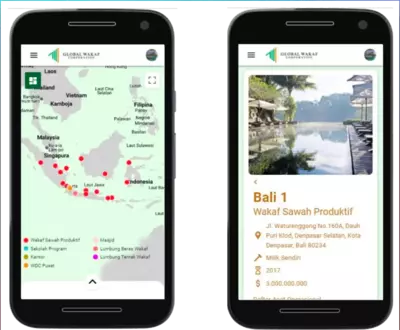
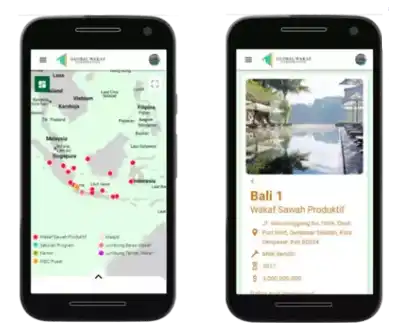
Fix nama route, dan fix image layout shift

diff --git a/src/routes/projects/+page.svelte b/src/routes/projects/+page.svelte
@@ -6,7 +6,7 @@
 			classes: 'img-horizontal-asik',
 			img: ['/images/asik.webp'],
 			stack: ['VueJS 2', 'Tailwind'],
-			project: 'Kementrian Kesehatan',
+			project: 'Kementerian Kesehatan',
 			url: null
 		},
 		{
@@ -15,7 +15,7 @@
 			classes: 'img-vertical',
 			img: ['/images/ehac.webp', '/images/ehac1.webp', 'images/myehac.webp'],
 			stack: ['NuxtJS', 'Vuetify'],
-			project: 'Kementrian Kesehatan',
+			project: 'Kementerian Kesehatan',
 			url: null
 		},
 		{
@@ -24,7 +24,7 @@
 			classes: 'img-vertical',
 			img: ['/images/vue3-movie.webp'],
 			stack: ['VueJS 3', 'Tailwind'],
-			project: 'Self Project',
+			project: 'Proyek Pribadi',
 			url: 'https://vue3-movie.vercel.app'
 		},
 		{
@@ -33,7 +33,7 @@
 			classes: 'img-vertical',
 			img: ['/images/catatan-kajian.webp'],
 			stack: ['SvelteKit', 'Tailwind'],
-			project: 'Self Project',
+			project: 'Proyek Pribadi',
 			url: 'https://catatan-kajian.vercel.app'
 		},
 		{
@@ -42,7 +42,7 @@
 			classes: 'img-horizontal-blibli',
 			img: ['/images/blibli.webp'],
 			stack: ['SvelteKit', 'Tailwind'],
-			project: 'Self Project',
+			project: 'Proyek Pribadi',
 			url: 'https://learn-svelte-sveltekit.vercel.app/project/blibli-clone'
 		},
 		{
@@ -60,7 +60,7 @@
 			classes: 'img-horizontal-carigawe',
 			img: ['/images/carigawe2.webp'],
 			stack: ['ReactJS', 'Typescript', 'Sequelize', 'SocketIO', 'ExpressJS', 'MaterialUI'],
-			project: 'Self Project',
+			project: 'Proyek Pribadi',
 			url: null
 		},
 		{
@@ -69,7 +69,7 @@
 			classes: 'img-vertical',
 			img: ['/images/catatanuang2.webp'],
 			stack: ['React Native', 'Typescript', 'Realm'],
-			project: 'Self Project',
+			project: 'Proyek Pribadi',
 			url: null
 		},
 		{
@@ -86,7 +86,7 @@
 
 <div class=" columns-1 sm:columns-2 md:columns-3 gap-4 p-4 mb-4">
 	{#each listProject as item}
-		<div class="break-inside-avoid mb-4 bg-gray-1 shadow-md rounded-md dark:bg-white">
+		<div class="break-inside-avoid mb-4 bg-neutral-1 shadow-md rounded-md dark:bg-white">
 			<div
 				class="rounded-t-md shadow-lg  relative justify-center flex flex-row flex-wrap gap-2 overflow-hidden"
 			>
@@ -101,7 +101,7 @@
 					<img
 						src={img}
 						alt="img-{item.label}"
-						class="{item.vertical ? 'h-56' : 'h-52'} z-10 w-auto object-contain {item.classes}"
+						class="{item.vertical ? 'h-56' : 'h-52'} p-2 z-10 w-auto object-contain {item.classes}"
 					/>
 				{/each}
 			</div>

diff --git a/src/routes/+page.svelte b/src/routes/+page.svelte
@@ -54,31 +54,40 @@
 
 		<div class="mt-4 flex flex-col gap-2 dark:text-white ">
 			<div class="text-2xl font-semibold">Ubay Dillah</div>
-			<div class="flex items-center text-sm gap-1">
+			<div class="flex items-center lt-md:justify-center text-sm gap-1">
 				<div class="i-octicon-location " />
-				<div>Tangsel / Bekasi</div>
+				<div>Bekasi</div>
 			</div>
 		</div>
 		<div class="w-full mt-2 mb-3 h-2 border-b border-gray-3 dark:border-gray-7" />
 		<div class="font-semibold dark:text-white">Pencapaian</div>
-		<div class="flex gap-2 mb-2 w-full overflow-y-auto lt-md:w-full">
-			{#each achievements as item}
-				<img
-					src={item.img}
-					alt="img-achievment-{item.id}"
-					class="w-80% pointer-events-none h-full mt-4 bg-gray-3 aspect-ratio-8/6 shadow mb-4 dark:bg-gray-7 lt-md:w-50%"
-				/>
-			{/each}
+		<div class="overflow-x-auto w-full">
+			<div class="flex gap-2 mb-2 w-[700px]">
+				{#each achievements as item}
+					<div class="w-[20em] h-full lt-md:w-[20em]">
+						<img
+							src={item.img}
+							alt="img-achievment-{item.id}"
+							class="w-100% pointer-events-none h-full my-4 bg-gray-3 aspect-ratio-8/6 shadow dark:bg-gray-7"
+						/>
+					</div>
+				{/each}
+			</div>
 		</div>
 	</div>
 
 	<div class="w-full flex flex-col dark:text-white ">
 		<div class="border border-gray-3 rounded-lg p-4 dark:border-gray-7">
 			<p class="text-2xl text-center">Hi, Saya Ubay 👋</p>
-			<p class="leading-6">
-				Saya seorang ayah yang dikaruniai 2 orang anak. saya seorang yang sangat tertarik dengan
-				hal-hal baru dalam teknologi web. saat ini saya bekerja sebagai frontend developer di sebuah
-				pemerintahan yang bergerak dibidang kesehatan.
+			<p class="leading-6 indent-5 text-justify">
+				Saya seorang ayah dari 2 orang anak. saya seorang yang sangat tertarik dengan hal-hal baru
+				dalam teknologi web. saat ini saya bekerja sebagai frontend developer di
+				<a
+					href="https://dto.kemkes.go.id"
+					class="text-orange-6 dark:text-orange-4 font-bold decoration-none border-x-none border-t-none border-b-1 border-dashed"
+				>
+					DTO Kemenkes
+				</a>
 			</p>
 		</div>
 

diff --git a/src/lib/utils/fetchBlog.js b/src/lib/utils/fetchBlog.js
@@ -4,7 +4,7 @@
 export const fetchAllBlog = async () => {
 	const PER_PAGE = 10;
 
-	const allPostFiles = import.meta.glob('/src/routes/blog/contents/*.md');
+	const allPostFiles = import.meta.glob('/src/routes/blogs/contents/*.md');
 	const iterablePostFiles = Object.entries(allPostFiles);
 
 	return await Promise.all(
@@ -22,7 +22,7 @@ export const fetchAllBlog = async () => {
 
 export const fetchBlogWithFilter = async (search, page) => {
 	const searchs = (search && search.toLowerCase()) || search;
-	const allPostFiles = import.meta.glob('/src/routes/blog/contents/*.md');
+	const allPostFiles = import.meta.glob('/src/routes/blogs/contents/*.md');
 	const iterablePostFiles = Object.entries(allPostFiles);
 
 	const allPosts = await Promise.all(
@@ -52,7 +52,7 @@ export const fetchBlogWithFilter = async (search, page) => {
 };
 
 export const fetchBlogWithTags = async () => {
-	const allPostFiles = import.meta.glob('/src/routes/blog/contents/*.md');
+	const allPostFiles = import.meta.glob('/src/routes/blogs/contents/*.md');
 	const iterablePostFiles = Object.entries(allPostFiles);
 
 	return await Promise.all(
@@ -69,7 +69,7 @@ export const fetchBlogWithTags = async () => {
 };
 
 export const fetchBlogForSitemap = async () => {
-	const allPostFiles = import.meta.glob('/src/routes/blog/contents/*.md');
+	const allPostFiles = import.meta.glob('/src/routes/blogs/contents/*.md');
 	const iterablePostFiles = Object.entries(allPostFiles);
 
 	const posts = await Promise.all(

diff --git a/src/lib/components/Header.svelte b/src/lib/components/Header.svelte
@@ -7,8 +7,8 @@
 
 	export let listTab = [
 		{ id: 1, label: 'Profil', url: '/', icon: 'i-octicon-person-16' },
-		{ id: 2, label: 'Blogs', url: '/blog', icon: 'i-octicon-book-16' },
-		{ id: 3, label: 'Projects', url: '/project', icon: 'i-octicon-repo-16' }
+		{ id: 2, label: 'Blog', url: '/blogs', icon: 'i-octicon-book-16' },
+		{ id: 3, label: 'Proyek', url: '/projects', icon: 'i-octicon-repo-16' }
 	];
 
 	let tabActive = 1;

diff --git a/src/routes/blogs/tags/[tag]/+page.js b/src/routes/blogs/tags/[tag]/+page.js
@@ -1,7 +1,7 @@
 // @ts-nocheck
 export const load = async ({ fetch, params }) => {
 	const { tag } = params;
-	const response = await fetch(`/api/blog/tag`);
+	const response = await fetch(`/api/blogs/tag`);
 	const allPosts = await response.json();
 
 	const posts = allPosts.filter((post) => post.meta.tags.includes(tag));

diff --git a/src/routes/blogs/+page.js b/src/routes/blogs/+page.js
@@ -1,6 +1,6 @@
 // @ts-nocheck
 export const load = async ({ fetch }) => {
-	const apiPostsResponse = await fetch(`/api/blog`);
+	const apiPostsResponse = await fetch(`/api/blogs`);
 	const dataPosts = await apiPostsResponse.json();
 	const posts = dataPosts;
 

diff --git a/src/routes/blogs/search/+page.svelte b/src/routes/blogs/search/+page.svelte
@@ -13,7 +13,7 @@
 	const filterArtikel = async () => {
 		isLoading = true;
 		try {
-			const res = await fetch('/api/blog', {
+			const res = await fetch('/api/blogs', {
 				method: 'POST',
 				headers: {
 					'Content-Type': 'application/json'

diff --git a/src/routes/blogs/tags/+page.js b/src/routes/blogs/tags/+page.js
@@ -1,6 +1,6 @@
 // @ts-nocheck
 export const load = async ({ fetch }) => {
-	const response = await fetch(`/api/blog/tag`);
+	const response = await fetch(`/api/blogs/tag`);
 	const posts = await response.json();
 
 	let tagsSet = new Set();

diff --git a/src/routes/+layout.svelte b/src/routes/+layout.svelte
@@ -53,7 +53,7 @@
 </svelte:head>
 
 <Seo title="Ubay Dillah" metadescription="Catatan" />
-<main>
+<main class="overflow-hidden">
 	<Header />
 	<slot />
 	<button
